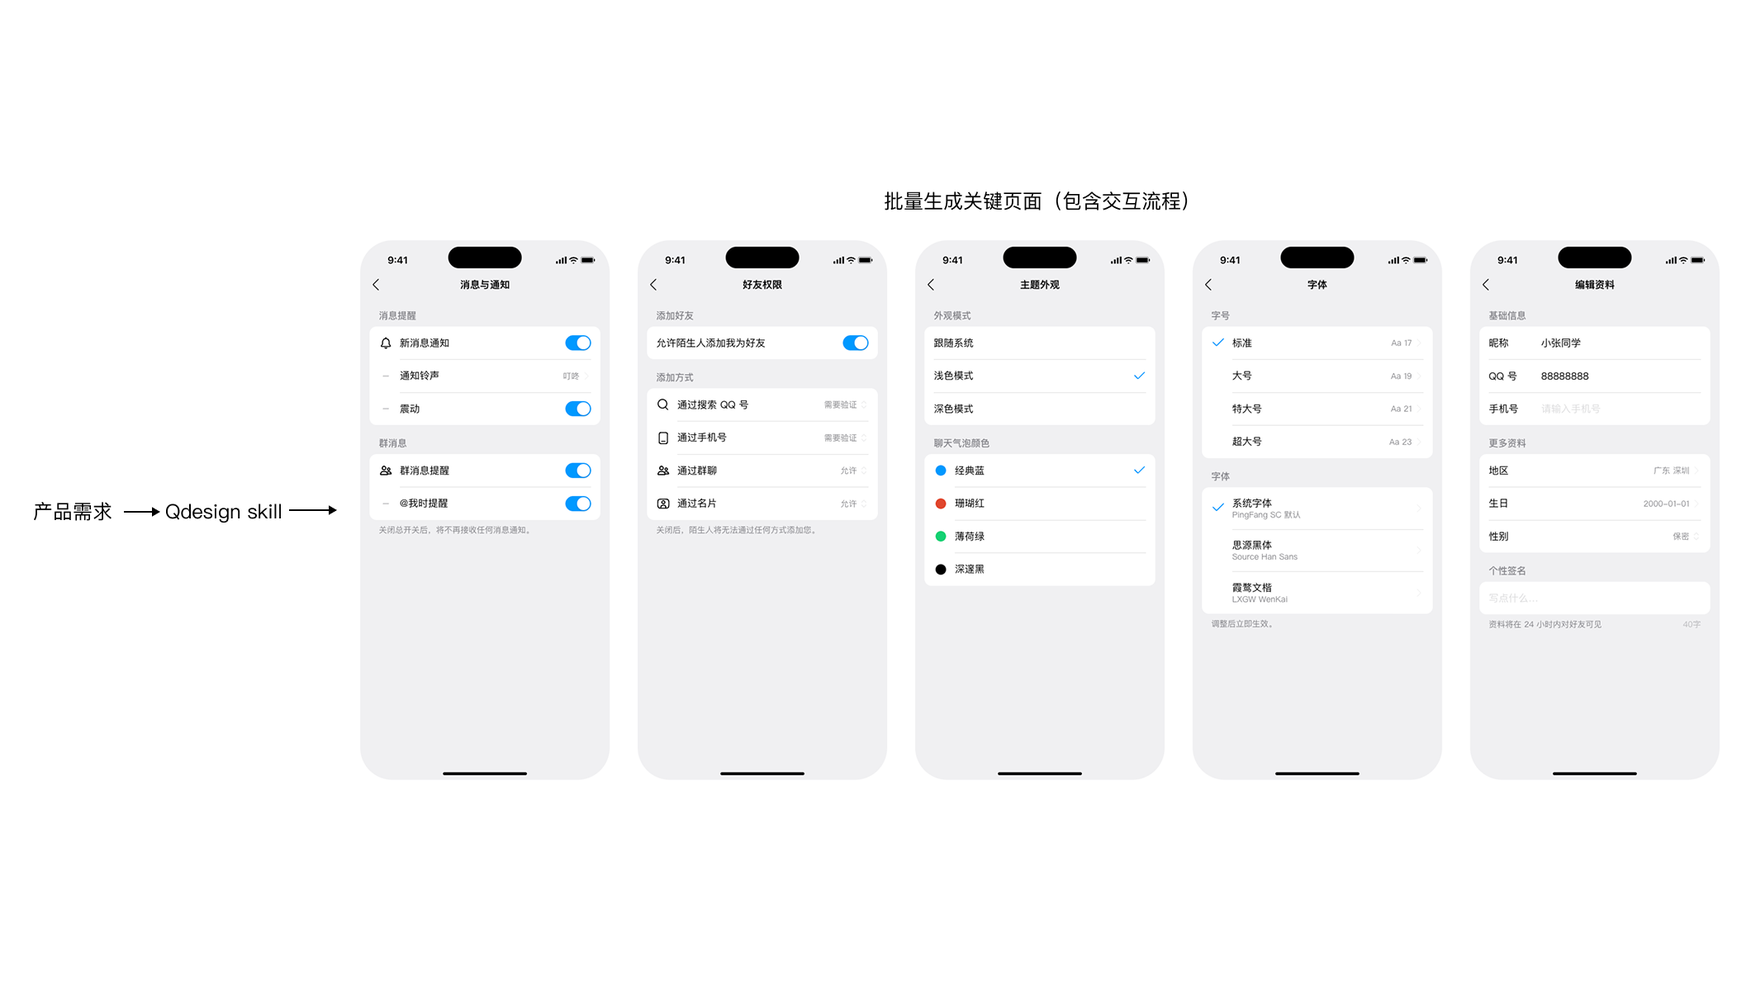
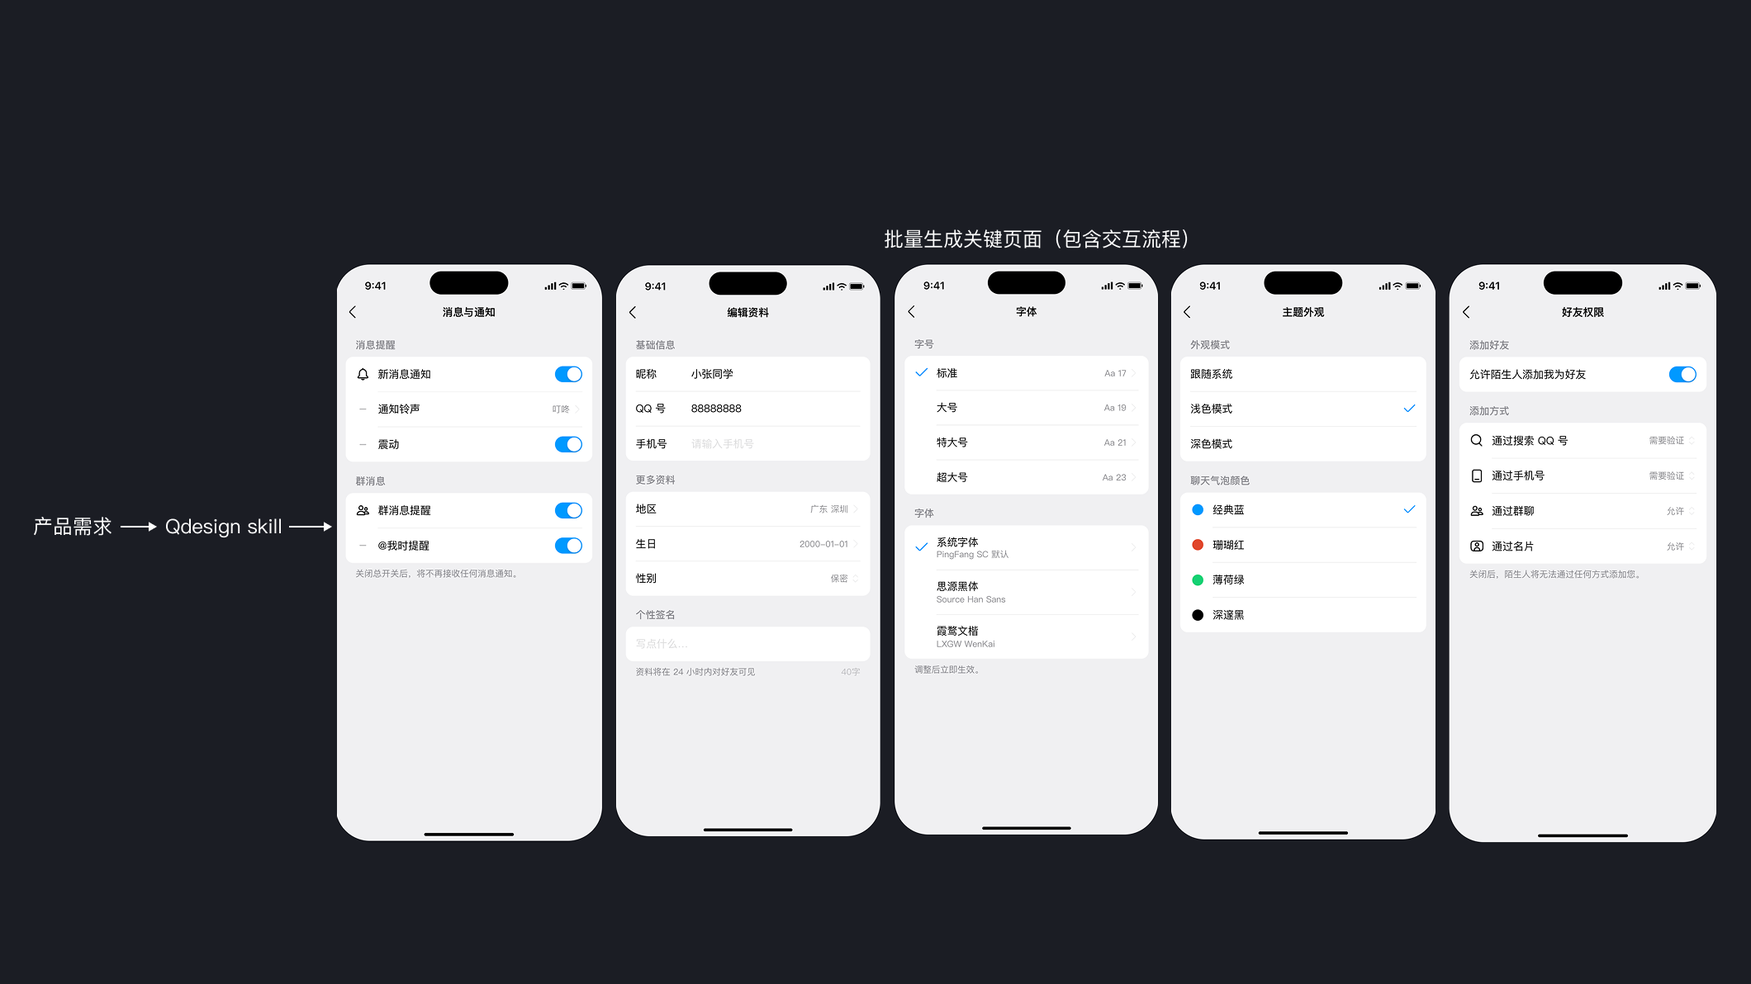
更新案例解释图及页面内容

diff --git a/components/site/home-page.tsx b/components/site/home-page.tsx
@@ -90,12 +90,12 @@ const actionGroups = [
     items: [
       {
         cmd: "/critique",
-        desc: "Check whether the current design meets the half-screen component spec based on screenshots and other materials. Designers can leverage QQ GenUI for precise, ready-to-use component recommendations.",
+        desc: "Check whether the current design meets the half-screen component spec based on screenshots and other materials. Designers can leverage Qdesign for precise, ready-to-use component recommendations.",
         spec: "Full half-screen spec",
       },
       {
         cmd: "/audit",
-        desc: "Fix incorrect designs in mockups according to form component specifications. With QQ GenUI, you can correct component usage, component interactions, layout, and token usage issues.",
+        desc: "Fix incorrect designs in mockups according to form component specifications. With Qdesign, you can correct component usage, component interactions, layout, and token usage issues.",
         spec: "Full settings spec",
       },
     ],
@@ -150,7 +150,7 @@ const actionGroups = [
     items: [
       {
         cmd: "/check-code",
-        desc: "Review generated component code and design tokens for spec compliance. Quickly scan for errors and fix them with QQ GenUI.",
+        desc: "Review generated component code and design tokens for spec compliance. Quickly scan for errors and fix them with Qdesign.",
         spec: "",
       },
     ],
@@ -163,12 +163,12 @@ const actionGroupsZh = [
     items: [
       {
         cmd: "/评估",
-        desc: "根据截图等资料，检查现有设计是否符合半屏组件规范。设计师可借助\u00a0QQ\u00a0GenUI\u00a0获取精准且可直接使用的组件建议。",
+        desc: "根据截图等资料，检查现有设计是否符合半屏组件规范。设计师可借助\u00a0Qdesign\u00a0获取精准且可直接使用的组件建议。",
         spec: "完整半屏规范",
       },
       {
         cmd: "/修正",
-        desc: "根据表单组件规范，修复设计稿中的错误设计。借助\u00a0QQ\u00a0GenUI，可修正组件使用、组件交互、布局、token 使用等问题。",
+        desc: "根据表单组件规范，修复设计稿中的错误设计。借助\u00a0Qdesign，可修正组件使用、组件交互、布局、token 使用等问题。",
         spec: "完整设置规范",
       },
     ],
@@ -223,7 +223,7 @@ const actionGroupsZh = [
     items: [
       {
         cmd: "/检查代码",
-        desc: "查看生成的内容的组件代码和 design token 是否规范，通过\u00a0QQ\u00a0GenUI\u00a0快速扫描错误并修复。",
+        desc: "查看生成的内容的组件代码和 design token 是否规范，通过\u00a0Qdesign\u00a0快速扫描错误并修复。",
         spec: "",
       },
     ],
@@ -240,7 +240,7 @@ const navItemsZh = [
 
 const faqItemsZh = [
   {
-    question: "我刚接触 QQ GenUI，从哪里开始？",
+    question: "我刚接触 Qdesign，从哪里开始？",
     answer: "先看 Cheatsheet 页面，了解各命令的用途，然后从 /评估 开始尝试，几分钟就能熟悉流程。",
   },
   {
@@ -316,7 +316,7 @@ function BeforeAfterCompare({ isZh }: { isZh: boolean }) {
           >
             {isBefore
               ? (isZh ? "生成" : "Generate")
-              : (isZh ? "使用 QQ GenUI 生成" : "Generate with QQ GenUI")}
+              : (isZh ? "使用 Qdesign 生成" : "Generate with Qdesign")}
           </button>
         </div>
 
@@ -685,7 +685,7 @@ export function HomePage() {
     <div className="min-h-screen bg-[var(--background)] text-[var(--foreground)]">
       <header className="sticky top-0 z-50 border-b border-[var(--border)] bg-[rgba(255,255,255,0.94)] backdrop-blur-md">
         <div className="mx-auto flex h-14 w-full max-w-[1140px] items-center justify-between px-4 sm:h-18 sm:px-7 lg:px-10">
-          <span className="font-serif text-[clamp(1.5rem,2.4vw,3rem)] italic leading-none tracking-[-0.02em] text-[#0f1012]">QQ{"\u00a0"}GenUI</span>
+          <span className="font-serif text-[clamp(1.5rem,2.4vw,3rem)] italic leading-none tracking-[-0.02em] text-[#0f1012]">Qdesign</span>
 
           <nav className="hidden items-center gap-1 md:flex">
             {localizedNavItems.map((item, idx) => {
@@ -784,7 +784,7 @@ export function HomePage() {
             className="space-y-10 lg:max-w-[600px]"
           >
             <div className="space-y-5">
-              <h1 className="font-serif text-[clamp(3.2rem,6vw,5rem)] italic leading-[0.9] tracking-[-0.03em] text-[#0b0d13]">QQ GenUI</h1>
+              <h1 className="font-serif text-[clamp(3.2rem,6vw,5rem)] italic leading-[0.9] tracking-[-0.03em] text-[#0b0d13]">Qdesign</h1>
               <p className="max-w-[470px] font-serif text-[clamp(1.45rem,2.5vw,2.1rem)] italic leading-[1.1] text-[#141821]">
                 {isZh ? "AI harnesses 提升设计质量" : "AI harnesses that elevate design quality"}
               </p>
@@ -792,8 +792,8 @@ export function HomePage() {
 
             <p className={`max-w-[590px] ${isZh ? "text-[clamp(0.92rem,1.05vw,1.08rem)] leading-[1.82]" : "text-[clamp(0.92rem,1.02vw,1.1rem)] leading-[1.72]"} text-[#1d232f]`}>
               {isZh
-                ? <>在实际业务中，好的设计输出要求稳定生成，符合产品设计语言。你不能要求AI为你生成{"\u201c"}符合QQ规范的界面{"\u201d"}而不提供任何设计上下文和约束。QQ GenUI为你提供了完整的AI友好的QQ设计规范，开箱即用，对使用者的提示词水平和使用的开发工具无要求。</>
-                : "In real-world product work, high-quality design output must be consistently generated and aligned with the product design language. You cannot ask AI to generate a \"QQ-compliant interface\" without providing any design context or constraints. QQ GenUI gives you a complete, AI-friendly QQ design specification out of the box, with no requirements on users' prompt-writing skills or development tools."}
+                ? <>在实际业务中，好的设计输出要求稳定生成，符合产品设计语言。你不能要求AI为你生成{"\u201c"}符合QQ规范的界面{"\u201d"}而不提供任何设计上下文和约束。Qdesign为你提供了完整的AI友好的QQ设计规范，开箱即用，对使用者的提示词水平和使用的开发工具无要求。</>
+                : "In real-world product work, high-quality design output must be consistently generated and aligned with the product design language. You cannot ask AI to generate a \"QQ-compliant interface\" without providing any design context or constraints. Qdesign gives you a complete, AI-friendly QQ design specification out of the box, with no requirements on users' prompt-writing skills or development tools."}
             </p>
 
             <div className="max-w-[560px] border border-[#e5e8ee] bg-white px-5 py-3">
@@ -842,7 +842,7 @@ export function HomePage() {
                 <span className="size-2.5 rounded-full bg-[#d6dae0]" /> {isZh ? "通用 AI 输出" : "General AI Output"}
               </span>
               <span className="inline-flex items-center gap-2.5">
-                <span className="size-2.5 rounded-full bg-[#0099ff]" /> {isZh ? "使用 QQ GenUI" : "With QQ GenUI"}
+                <span className="size-2.5 rounded-full bg-[#0099ff]" /> {isZh ? "使用 Qdesign" : "With Qdesign"}
               </span>
             </div>
           </motion.div>
@@ -1269,7 +1269,7 @@ export function HomePage() {
             {isZh ? "开始使用" : "Get Started"}
           </h2>
           <p className="mt-4 text-[clamp(1.02rem,1.5vw,1.5rem)] leading-[1.36] text-[#1f2532]">
-            {isZh ? "一步开始 QQ GenUI 设计。" : "One step to QQ GenUI design."}
+            {isZh ? "一步开始 Qdesign 设计。" : "One step to Qdesign."}
           </p>
 
           <div className="mx-auto mt-10 w-full max-w-[830px] space-y-9">

diff --git a/components/site/cases-page.tsx b/components/site/cases-page.tsx
@@ -44,7 +44,7 @@ function DemoPreview({ url, title, iframeWidth, iframeHeight }: { url: string; t
     <div>
       {mode === "demo" ? (
         isWide ? (
-          <div ref={containerRef} className="overflow-x-auto overflow-y-hidden bg-[var(--background)]" style={{ height: h * scale }}>
+          <div ref={containerRef} className="overflow-x-auto overflow-y-hidden bg-[#1a1d24]" style={{ height: h * scale }}>
             <div style={{ width: w * scale, height: h * scale }}>
               <iframe
                 src={url}
@@ -57,7 +57,7 @@ function DemoPreview({ url, title, iframeWidth, iframeHeight }: { url: string; t
             </div>
           </div>
         ) : (
-          <div ref={containerRef} className="flex justify-center overflow-hidden bg-[var(--background)]" style={{ height: h * scale }}>
+          <div ref={containerRef} className="flex justify-center overflow-hidden bg-[#1a1d24]" style={{ height: h * scale }}>
             <iframe
               src={url}
               title={title}
@@ -148,8 +148,8 @@ const cases: CaseItem[] = [
     id: "settings",
     title: "设置",
     titleEn: "Settings",
-    desc: "通过 QQ GenUI 生成移动端设置页界面，根据需求添加设置组件，组件自带完整交互逻辑。",
-    descEn: "Generate a mobile settings page with QQ GenUI. Add setting components as needed — each comes with complete interaction logic.",
+    desc: "通过 Qdesign 生成移动端设置页界面，根据需求添加设置组件，组件自带完整交互逻辑。",
+    descEn: "Generate a mobile settings page with Qdesign. Add setting components as needed — each comes with complete interaction logic.",
     video: "/videos/settings-demo.mp4",
     demoUrl: "/demos/setting-standalone.html",
     explainImage: "/case-explains/settings.png",
@@ -171,8 +171,8 @@ const cases: CaseItem[] = [
     id: "batch-produce",
     title: "批量生产界面",
     titleEn: "Batch Production",
-    desc: "通过 QQ GenUI 一次生成应用的多个关键界面或流程界面。",
-    descEn: "Generate multiple key screens or flow screens for an application in one go with QQ GenUI.",
+    desc: "通过 Qdesign 一次生成应用的多个关键界面或流程界面。",
+    descEn: "Generate multiple key screens or flow screens for an application in one go with Qdesign.",
     video: "/videos/batch-produce.mp4",
     demoUrl: "/demos/settings-templates-standalone.html",
     iframeWidth: 2380,
@@ -233,7 +233,7 @@ function CaseCompare({ beforeLabel, afterLabel }: { beforeLabel: string; afterLa
       ref={containerRef}
       onMouseMove={(e) => handleMove(e.clientX)}
       onTouchMove={(e) => { if (e.touches[0]) handleMove(e.touches[0].clientX); }}
-      className="relative cursor-col-resize select-none overflow-hidden bg-[#fafbfc]"
+      className="relative cursor-col-resize select-none overflow-hidden bg-[#1a1d24]"
       style={{ minHeight: 320 }}
     >
       <div className="pointer-events-none absolute inset-0 opacity-25 [background-image:linear-gradient(#edf6ff_1px,transparent_1px),linear-gradient(90deg,#edf6ff_1px,transparent_1px)] [background-size:24px_24px]" />
@@ -318,7 +318,7 @@ function SideBySideCompare({
   const gap = 48 * scale;
 
   return (
-    <div ref={containerRef} className="bg-[#eef0f4]">
+    <div ref={containerRef} className="bg-[#1a1d24]">
       <div className="flex justify-center" style={{ padding: `${20 * scale}px ${16 * scale}px`, gap }}>
         <div className="flex flex-col items-center" style={{ width: phoneW }}>
           <div className="overflow-hidden rounded-[12px] border border-[#e4e7ec] shadow-[0_8px_32px_-12px_rgba(0,0,0,0.12)]" style={{ width: phoneW, height: phoneH }}>
@@ -386,7 +386,7 @@ function TripleSideBySideCompare({
   const gap = 24 * scale;
 
   return (
-    <div ref={containerRef} className="bg-[#fafbfc]">
+    <div ref={containerRef} className="bg-[#1a1d24]">
       <div className="flex justify-center" style={{ padding: `${20 * scale}px 32px`, gap }}>
         {urls.map((url, i) => (
           <div key={url} className="flex flex-col items-center" style={{ width: phoneW }}>
@@ -472,7 +472,7 @@ function IframeCompare({
   const scaledW = 428 * scale;
 
   return (
-    <div ref={containerRef} className="bg-[#fafbfc]">
+    <div ref={containerRef} className="bg-[#1a1d24]">
       <div className="relative mx-auto" style={{ height: scaledH, width: scaledW }}>
         <div className="absolute left-0 top-0" style={{ width: 428, height: 926, transform: `scale(${scale})`, transformOrigin: "top left" }}>
           {/* Before layer — full width */}
@@ -599,7 +599,7 @@ function TripleIframeCompare({
   const scaledW = 428 * scale;
 
   return (
-    <div ref={containerRef} className="bg-[#fafbfc]">
+    <div ref={containerRef} className="bg-[#1a1d24]">
       <div className="relative mx-auto" style={{ height: scaledH, width: scaledW }}>
         <div className="absolute left-0 top-0" style={{ width: 428, height: 926, transform: `scale(${scale})`, transformOrigin: "top left" }}>
           {/* Layer 1 (left) — full background */}
@@ -725,7 +725,7 @@ export function CasesPage() {
       <header className="sticky top-0 z-50 border-b border-[var(--border)] bg-[rgba(255,255,255,0.94)] backdrop-blur-md">
         <div className="mx-auto flex h-14 w-full max-w-[1140px] items-center justify-between px-4 sm:h-18 sm:px-7 lg:px-10">
           <Link href={isZh ? "/" : "/?lang=en"} className="font-serif text-[clamp(1.5rem,2.4vw,3rem)] italic leading-none tracking-[-0.02em] text-[#0f1012]">
-            QQ{"\u00a0"}GenUI
+            Qdesign
           </Link>
 
           <nav className="hidden items-center gap-1 md:flex">
@@ -779,8 +779,8 @@ export function CasesPage() {
         </h1>
         <p className="mt-5 max-w-[680px] text-[clamp(1.04rem,1.35vw,1.22rem)] leading-[1.72] text-[#505764]">
           {isZh
-            ? "通过真实场景了解 QQ GenUI 的能力。每个案例包含完整的操作步骤、生成效果对比和手机端体验入口。"
-            : "Explore QQ GenUI capabilities through real-world scenarios. Each case includes step-by-step instructions, before/after comparisons, and mobile preview access."}
+            ? "通过真实场景了解 Qdesign 的能力。每个案例包含完整的操作步骤、生成效果对比和手机端体验入口。"
+            : "Explore Qdesign capabilities through real-world scenarios. Each case includes step-by-step instructions, before/after comparisons, and mobile preview access."}
         </p>
 
         {/* ── Collapse/Expand all ── */}
@@ -990,7 +990,7 @@ export function CasesPage() {
 
       {/* ── Footer ── */}
       <footer className="border-t border-[rgba(16,20,30,.08)] py-12">
-        <p className="text-center text-[0.88rem] text-[#9ea3ac]">© 2026 QQ GenUI</p>
+        <p className="text-center text-[0.88rem] text-[#9ea3ac]">© 2026 Qdesign</p>
       </footer>
     </div>
   );

diff --git a/components/site/skills-page.tsx b/components/site/skills-page.tsx
@@ -45,11 +45,11 @@ const skills: Skill[] = [
     name: "QQ-GENUI-basic1.0",
     nameZh: "QQ-GENUI-basic1.0",
     version: "1.0",
-    author: "QQ GenUI",
+    author: "Qdesign",
     tag: "Core",
     tagZh: "核心",
-    desc: "The foundational skill that converts QQ_GenUI design system specs into production mobile pages. Enforces a strict 11-stage Gate workflow with Knot MCP auto spec retrieval, icon localization, background color constraints, and up to 3 rounds of regression testing across 5 audit dimensions.",
-    descZh: "核心基础 skill，将 QQ_GenUI 设计系统规范转化为生产级移动端页面。强制执行 11 阶段 Gate 流程，通过 Knot MCP 按需检索组件规范，图标本地化，背景色强约束，最多 3 轮 5 维度回归测试。",
+    desc: "The foundational skill that converts Qdesign design system specs into production mobile pages. Enforces a strict 11-stage Gate workflow with Knot MCP auto spec retrieval, icon localization, background color constraints, and up to 3 rounds of regression testing across 5 audit dimensions.",
+    descZh: "核心基础 skill，将 Qdesign 设计系统规范转化为生产级移动端页面。强制执行 11 阶段 Gate 流程，通过 Knot MCP 按需检索组件规范，图标本地化，背景色强约束，最多 3 轮 5 维度回归测试。",
     highlights: [
       "11-stage Gate workflow (Gate -1 → Gate 10)",
       "Auto component spec retrieval via Knot MCP",
@@ -71,7 +71,7 @@ const skills: Skill[] = [
     name: "live-spec",
     nameZh: "live-spec",
     version: "1.0",
-    author: "QQ GenUI",
+    author: "Qdesign",
     tag: "Spec",
     tagZh: "规范",
     desc: "Turn static design specs into a live, interactive workbench. Generates both a pure page HTML and an Inspector workbench HTML with left canvas + right Inspector panel, supporting click-to-select components, real-time token editing, and postMessage communication.",
@@ -97,7 +97,7 @@ const skills: Skill[] = [
     name: "switch-style",
     nameZh: "switch-style",
     version: "1.0",
-    author: "QQ GenUI",
+    author: "Qdesign",
     tag: "Style",
     tagZh: "风格",
     desc: "Transform any existing UI into a target brand's visual style while preserving structure and content. Reads brand DESIGN.md for precise token mapping across 6 dimensions. Supports 58 brand design systems including Apple, Stripe, Tesla, Figma, and more.",
@@ -123,7 +123,7 @@ const skills: Skill[] = [
     name: "demo-to-phone",
     nameZh: "demo-to-phone",
     version: "1.0",
-    author: "QQ GenUI",
+    author: "Qdesign",
     tag: "Tool",
     tagZh: "工具",
     desc: "Publish local HTML files online and generate QR code pages with QQ WebView parameters. Includes mobile adaptation preprocessing (disable zoom, hide status bar, responsive scaling) before upload. Scan with QQ to preview demos on your phone instantly.",
@@ -149,7 +149,7 @@ const skills: Skill[] = [
     name: "skill-creator",
     nameZh: "skill-creator",
     version: "1.0",
-    author: "QQ GenUI",
+    author: "Qdesign",
     tag: "Dev",
     tagZh: "开发",
     desc: "Create new skills, modify and improve existing skills, and measure skill performance. Features an iterative development cycle with blind A/B eval testing, benchmark variance analysis, and description optimization for better triggering accuracy.",
@@ -224,7 +224,7 @@ export function SkillsPage() {
       <header className="sticky top-0 z-50 border-b border-[var(--border)] bg-[rgba(255,255,255,0.94)] backdrop-blur-md">
         <div className="mx-auto flex h-14 w-full max-w-[1140px] items-center justify-between px-4 sm:h-18 sm:px-7 lg:px-10">
           <Link href={isZh ? "/" : "/?lang=en"} className="font-serif text-[clamp(1.5rem,2.4vw,3rem)] italic leading-none tracking-[-0.02em] text-[#0f1012]">
-            QQ{"\u00a0"}GenUI
+            Qdesign
           </Link>
 
           <nav className="hidden items-center gap-1 md:flex">
@@ -429,8 +429,8 @@ export function SkillsPage() {
       {/* ── Footer ── */}
       <footer className="border-t border-[rgba(16,20,30,.08)]">
         <div className="mx-auto flex w-full max-w-[1140px] items-center justify-between px-4 py-10 sm:px-7 lg:px-10">
-          <p className="font-serif text-[1.1rem] italic leading-none tracking-[-0.02em] text-[#b4b8c2]">QQ{"\u00a0"}GenUI</p>
-          <p className="text-[0.84rem] text-[#9ea3ac]">© 2026 QQ{"\u00a0"}GenUI</p>
+          <p className="font-serif text-[1.1rem] italic leading-none tracking-[-0.02em] text-[#b4b8c2]">Qdesign</p>
+          <p className="text-[0.84rem] text-[#9ea3ac]">© 2026 Qdesign</p>
         </div>
       </footer>
 

diff --git a/components/site/cheatsheet-page.tsx b/components/site/cheatsheet-page.tsx
@@ -127,7 +127,7 @@ export function CheatsheetPage() {
       <header className="border-b border-[var(--border)] bg-[rgba(255,255,255,0.94)]">
         <div className="mx-auto flex h-18 w-full max-w-[1140px] items-center justify-between px-4 sm:px-7 lg:px-10">
           <Link href={isZh ? "/" : "/?lang=en"} className="font-serif text-[clamp(1.85rem,2.6vw,3rem)] italic leading-none tracking-[-0.02em] text-[#0f1012]">
-            QQ{"\u00a0"}GenUI
+            Qdesign
           </Link>
 
           <nav className="hidden items-center gap-1 md:flex">
@@ -280,8 +280,8 @@ export function CheatsheetPage() {
 
       <footer className="border-t border-[rgba(16,20,30,.08)]">
         <div className="mx-auto flex w-full max-w-[1140px] items-center justify-between px-4 py-10 sm:px-7 lg:px-10">
-          <p className="font-serif text-[1.1rem] italic leading-none tracking-[-0.02em] text-[#b4b8c2]">QQ{"\u00a0"}GenUI</p>
-          <p className="text-[0.84rem] text-[#9ea3ac]">© 2026 QQ{"\u00a0"}GenUI</p>
+          <p className="font-serif text-[1.1rem] italic leading-none tracking-[-0.02em] text-[#b4b8c2]">Qdesign</p>
+          <p className="text-[0.84rem] text-[#9ea3ac]">© 2026 Qdesign</p>
         </div>
       </footer>
     </div>

diff --git a/components/site/assets-page.tsx b/components/site/assets-page.tsx
@@ -44,7 +44,7 @@ export function AssetsPage() {
       <header className="shrink-0 border-b border-[var(--border)] bg-[rgba(255,255,255,0.94)]">
         <div className="mx-auto flex h-18 w-full max-w-[1140px] items-center justify-between px-4 sm:px-7 lg:px-10">
           <Link href={isZh ? "/" : "/?lang=en"} className="font-serif text-[clamp(1.85rem,2.6vw,3rem)] italic leading-none tracking-[-0.02em] text-[#0f1012]">
-            QQ{"\u00a0"}GenUI
+            Qdesign
           </Link>
 
           <nav className="hidden items-center gap-1 md:flex">

diff --git a/app/layout.tsx b/app/layout.tsx
@@ -2,7 +2,7 @@ import type { Metadata, Viewport } from "next";
 import "./globals.css";
 
 export const metadata: Metadata = {
-  title: "QQ GenUI - AI harnesses that elevate design quality",
+  title: "Qdesign - AI harnesses that elevate design quality",
   description: "A complete, AI-friendly QQ design specification. Component specs, design tokens, QUI icon library, and workflow skills — all out of the box.",
 };
 

diff --git a/data/site-content.ts b/data/site-content.ts
@@ -86,7 +86,7 @@ export const changelogEntries: ChangelogEntry[] = [
 
 export const faqItems: FaqItem[] = [
   {
-    question: "I'm new to QQ GenUI. Where do I start?",
+    question: "I'm new to Qdesign. Where do I start?",
     answer: "Start with the Cheatsheet page to understand each command, then try /critique first. You'll get familiar with the workflow in minutes.",
   },
   {

diff --git a/public/demos/settings-templates-standalone.html b/public/demos/settings-templates-standalone.html
@@ -596,7 +596,7 @@
 * { box-sizing: border-box; margin: 0; padding: 0; }
 html, body {
     font-family: var(--font-family);
-    background: var(--bg-top);
+    background: #1a1d24;
     color: var(--text-primary);
     -webkit-font-smoothing: antialiased;
 }

diff --git a/README.md b/README.md
@@ -1,4 +1,4 @@
-## QQ GenUI 高还原实现
+## Qdesign 高还原实现
 
 基于 `Next.js 16 + TypeScript + TailwindCSS + Framer Motion` 的双页面高还原项目。
 
